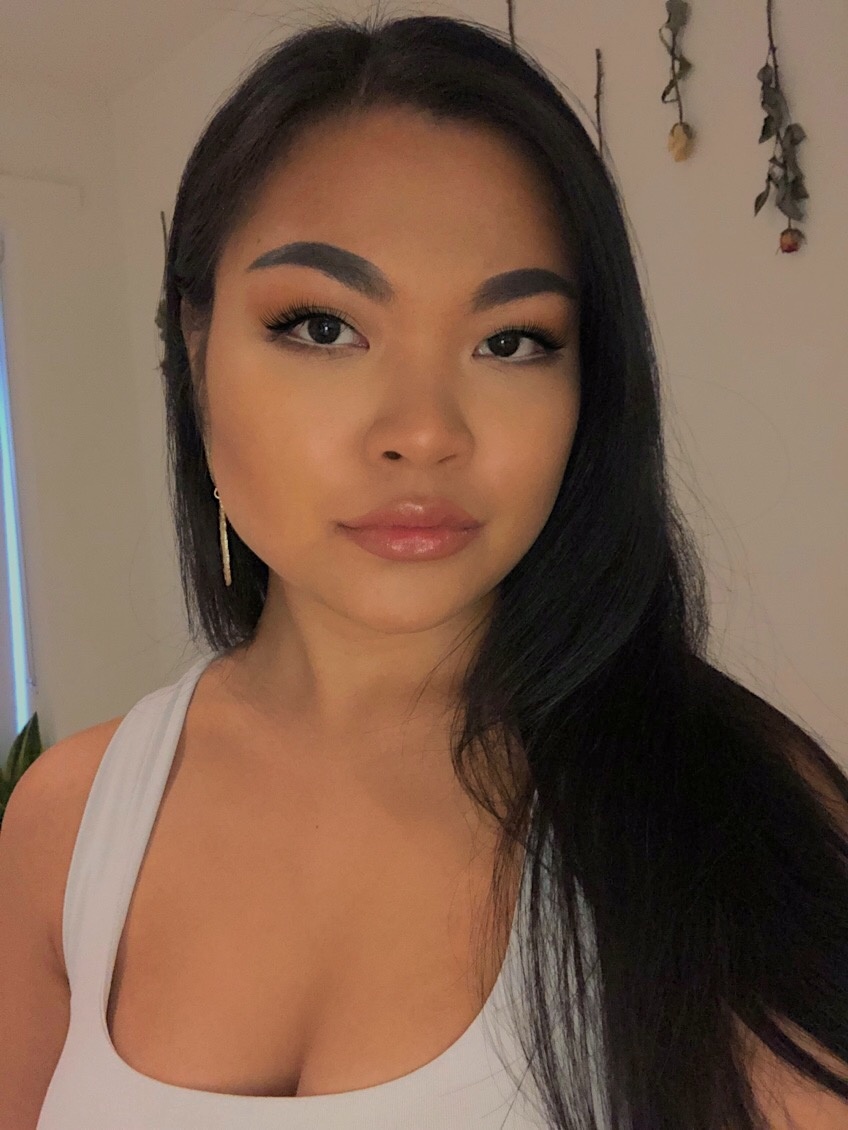
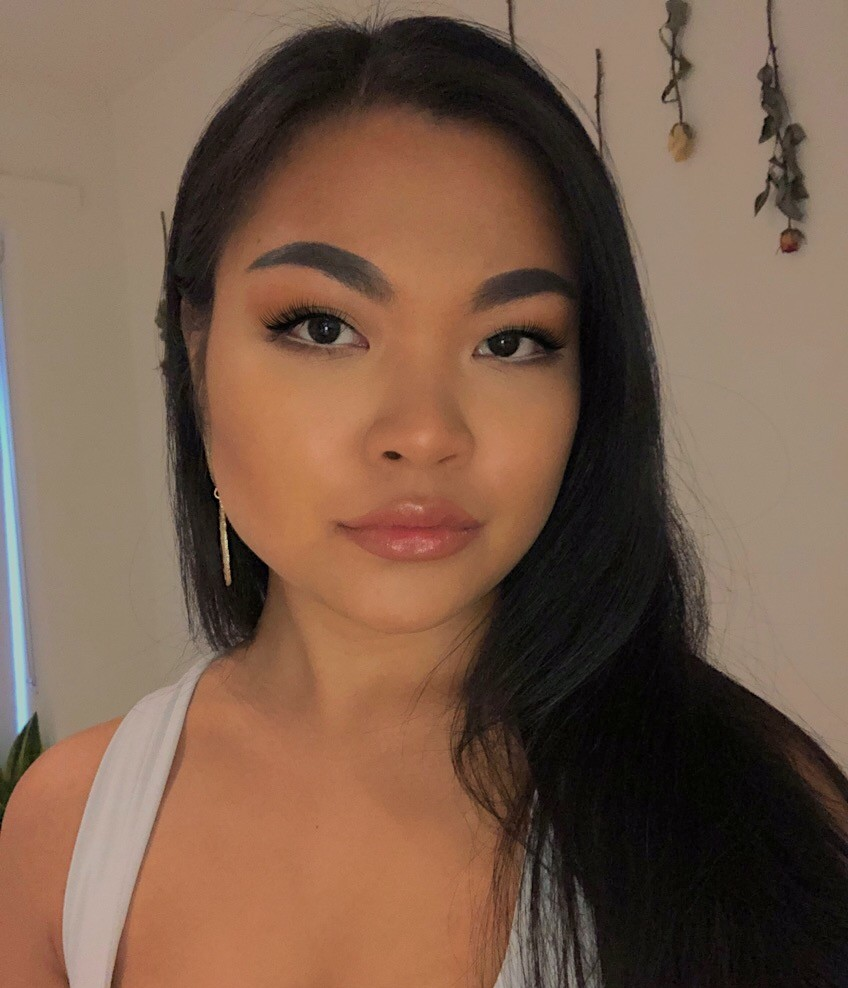
updated picture of anita

diff --git a/meet_the_team.html b/meet_the_team.html
@@ -147,7 +147,7 @@
               <div class="frontside">
                 <div class="card">
                   <div class="card-body text-center">
-                    <p><img class=" img-fluid" src="images/anita1.JPG" alt="card image"></p>
+                    <p><img class=" img-fluid" src="images/anita1.jpg" alt="card image"></p>
                     <h4 class="card-title">Anita Nguyen</h4>
                     <p class="card-text">Front-End Developer</p>
                   </div>
